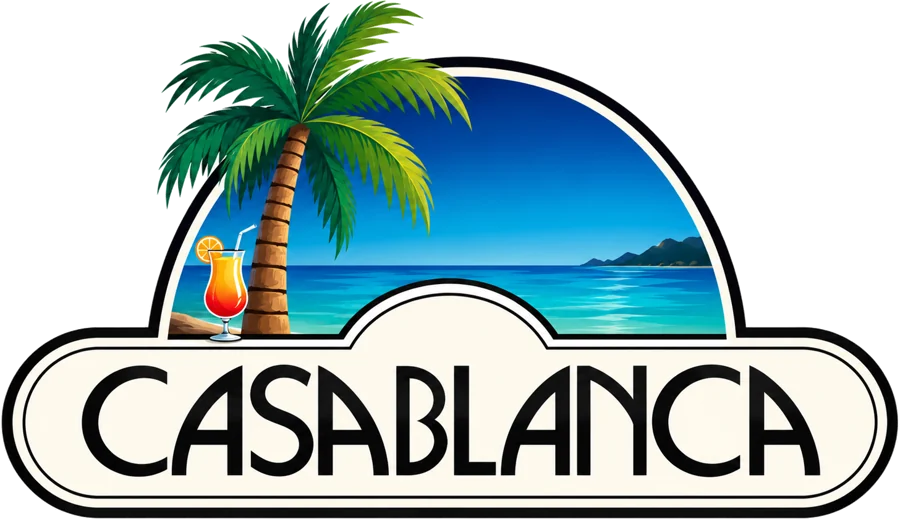
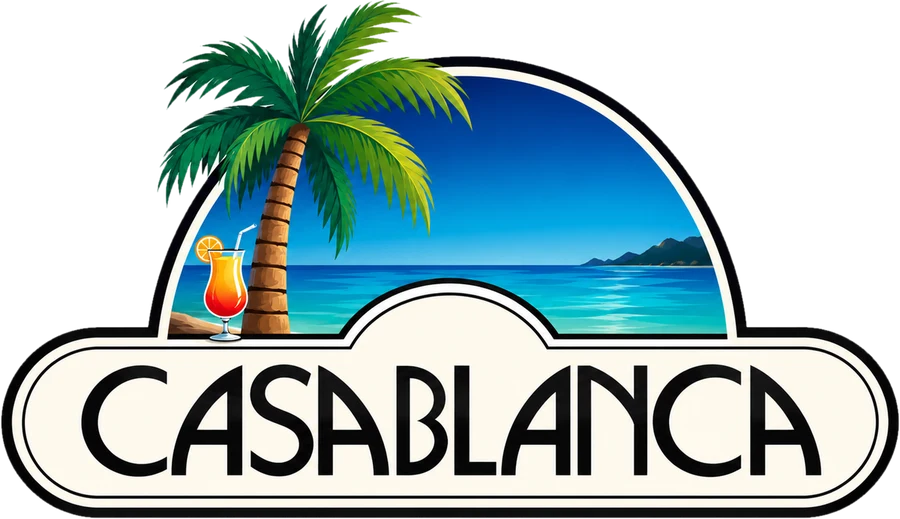
v20: el viaje vuelve a ser Casablanca (Our Beach Era queda como sticker)
- Logo Casablanca rehecho desde la versión nítida (fondo quitado); íconos regenerados
- Nombre por defecto Casablanca en app, manifest y marea-admin-personas
- Fuera sql/010; sql/009 también cubre «Our Beach Era». Demo resembrada (v13)
- BUILD_TAG v20, CACHE marea-v20

Claude-Session: https://claude.ai/code/session_019mPxzDvoYCSMcQcC5kjYpD

diff --git a/public/index.html b/public/index.html
@@ -4,7 +4,7 @@
 <meta charset="utf-8">
 <meta name="viewport" content="width=device-width, initial-scale=1, viewport-fit=cover">
 <!--ART-START-->
-<title>Our Beach Era · Same</title>
+<title>Casablanca · Same</title>
 <meta name="description" content="El viaje a la playa: gastos compartidos, tareas y noches temáticas.">
 <meta name="theme-color" content="#FFF9F1">
 <meta name="color-scheme" content="light">
@@ -472,7 +472,7 @@ a.item{text-decoration:none;color:inherit}
    Para conectar Supabase: pegar SB_URL y SB_ANON abajo (son públicas por diseño;
    la seguridad la hace RLS en sql/001_esquema.sql). La service_role JAMÁS va aquí.
    ============================================================================ */
-const BUILD_TAG='v19';
+const BUILD_TAG='v20';
 /* la casa, tal cual la publica el Airbnb (Daniel la pegó el 7-oct) */
 const CASA_AIRBNB={casa_titulo:'Precioso departamento en Casablanca (frente a la playa)',airbnb_url:'https://www.airbnb.cl/rooms/49074368',
   casa_desc:'Planta baja del Condominio Alcazaba del Río, en Casablanca (Same). A pocos metros de la piscina y el jacuzzi y a 10 gradas de la playa.\n\nSala, cocina, lavandería, 3 habitaciones y 2 baños completos. Terraza amplia y jardín con vista al mar: ideal para desayunar afuera y para las noches temáticas.\n\n¿Dónde dormimos?\n· Habitación 1: cama principal\n· Habitación 2: 2 camas individuales (literas)\n· Habitación 3: 4 camas individuales (literas)\n\nEl Airbnb dice 8 huéspedes · 7 camas · 2 baños · 4,83 ★ (35 reseñas).\nOjo: la casa no tiene detector de humo ni de monóxido.',
@@ -539,9 +539,9 @@ P.menu='<circle cx="13" cy="12.5" r="6"/><circle cx="13" cy="12.5" r="2.8"/><pat
 P.cocinera='<path d="M7 17.5h10V21H7z"/><path d="M7 17.5v-4.2A4 4 0 0 1 6 5.5a4 4 0 0 1 6-1.8 4 4 0 0 1 6 1.8 4 4 0 0 1-1 7.8v4.2"/>';
 P.logistica='<path d="M3.5 7.5 12 3l8.5 4.5v9L12 21l-8.5-4.5Z"/><path d="M3.5 7.5 12 12l8.5-4.5M12 12v9"/>';
 const ic=(k,cls='')=>`<svg class="${cls}" viewBox="0 0 24 24" fill="none" stroke="currentColor" stroke-width="1.8" stroke-linecap="round" stroke-linejoin="round" aria-hidden="true">${P[k]||P.otros}</svg>`;
-/* el logo del viaje: Our Beach Era (Daniel, 7-oct). Casablanca es la casa (sticker en Info). Ancho (1,7 : 1): px es el alto aproximado */
-const LOGO_CB='img/logo-beach-era.webp';
-function logo(px){return `<img class="logo logo-cb" src="${LOGO_CB}" alt="Our Beach Era" style="height:${Math.round(px*.62)}px;width:auto" onerror="this.remove()">`}
+/* el logo del viaje: Casablanca (Daniel, 7-oct; Our Beach Era queda como sticker). Ancho (1,7 : 1): px es el alto aproximado */
+const LOGO_CB='img/logo-casablanca.webp';
+function logo(px){return `<img class="logo logo-cb" src="${LOGO_CB}" alt="Casablanca" style="height:${Math.round(px*.62)}px;width:auto" onerror="this.remove()">`}
 const LOGO=logo(40);
 
 /* ---------- catálogos ---------- */
@@ -556,7 +556,7 @@ const TALLAS=['XS','S','M','L','XL','XXL'];
 const AVC=[['#D5EDEA','#075A56'],['#FCE5DC','#B23C1C'],['#E6E3FA','#4B3BA8'],['#FBEFD3','#8A5A0B'],['#DDF0FB','#1A5F8A'],['#F6DFEB','#9A2E64'],['#E3F2D9','#3F6B1C']];
 
 /* ---------- estado ---------- */
-let ME=null, PERSONAS=[], PMAP={}, CFG={nombre:'Our Beach Era',lugar:'',desde:null,hasta:null,moneda:'USD'};
+let ME=null, PERSONAS=[], PMAP={}, CFG={nombre:'Casablanca',lugar:'',desde:null,hasta:null,moneda:'USD'};
 let GASTOS=[], TAREAS=[], EVENTOS=[], VOTOS=[], ETIQUETAS=[], COMIDAS=[], PLATOS=[], ASIST=[], PRESU=[], INSPI=[], MURO=[], EQUIPO=[], VEHICULOS=[], PASAJEROS=[], COMERCIOS=[], MENSAJES=[];
 let TAB='hoy', SUBG='mov', SUBE='programa', FILT={cat:'',per:'',q:''}, FILTT={grupo:'',solo:false};
 const FOTOS={}; // ref → url resuelta
@@ -777,13 +777,13 @@ function seedDemo(){
   const vehiculos=[{id:uid(),nombre:'Camioneta de Daniel',conductor:autor,puestos:7,maletas:6,salida:'Quito, 6:00 a.m.',nota:'',creado_por:autor},{id:uid(),nombre:'Carro de Kevin',conductor:id('Kevin López'),puestos:5,maletas:4,salida:'Quito, 7:00 a.m.',nota:'',creado_por:id('Kevin López')}];
   const pasajeros=[]; const sube=(v,ns,t)=>ns.forEach(n=>pasajeros.push({vehiculo_id:vehiculos[v].id,persona_id:id(n),trayecto:t,maletas:1}));
   ['ida','regreso'].forEach(t=>{sube(0,['Daniel Martínez','Ana Paula','Alegría','Ana Cristina Grijalva'],t);sube(1,['Kevin López','Domenika Pérez','Natalia Vásquez','Amelia Camacho'],t)});
-  return {personas,config:{nombre:'Our Beach Era',lugar:'Same, Esmeraldas',desde,hasta,moneda:'USD',ejemplo:true,info:{...CASA_AIRBNB,casa_fotos:[],direccion:'Condominio Alcazaba del Río, Casablanca · Same, Esmeraldas',mapa_url:'',checkin:'15:00',checkout:'12:00',wifi_red:'',wifi_clave:'',
+  return {personas,config:{nombre:'Casablanca',lugar:'Same, Esmeraldas',desde,hasta,moneda:'USD',ejemplo:true,info:{...CASA_AIRBNB,casa_fotos:[],direccion:'Condominio Alcazaba del Río, Casablanca · Same, Esmeraldas',mapa_url:'',checkin:'15:00',checkout:'12:00',wifi_red:'',wifi_clave:'',
     que_llevar:['Protector solar y repelente','Traje de baño y toalla de playa','Todo blanco para la Welcome White Night','Pijama elegante para la Pizza & Game Night','Look dorado o beige para la Golden Hour (día 2)','Camisa hawaiana o look boho para el Tiki Boho Funny (día 3)','Algo elegante para la Restaurant Night','Tu número para el Talent Show','Medicinas personales'], /* las gafas de la sesión las pone Freaky Monkey */
     reglas:['Cero café soluble: se pasa café de verdad','Cada quien lava lo que usa en las cenas colaborativas','Todo gasto se sube con foto a la app','Silencio después de la 1 a.m. por los vecinos'],
     contactos:[{nombre:'Daniel',rol:'Organiza el viaje',tel:''}],
     faq:[{p:'¿Cómo se dividen los gastos?',r:'Cada gasto se sube a la app y se reparte entre quienes participan. Al final la app dice quién le paga a quién con el menor número de transferencias.'},{p:'¿Qué pasa si no como mariscos?',r:'Márcalo en tu ficha. La carta te avisa qué platos no son para ti y puedes pedir una variante.'},{p:'¿Hay que llevar comida?',r:'No. La despensa inicial se compra entre todos y los almuerzos los hace la cocinera.'}]}},gastos,tareas,eventos:ev,votos,etiquetas,historial:[],
     comidas:menu.comidas,platos:menu.platos,asistencia,presupuesto,inspiracion:[],equipo,vehiculos,pasajeros,comercios:[{clave:'n:supermercado ejemplo',nombre:'Supermercado (ejemplo)',ruc:null,categoria:'despensa',alcance:'fijo',etiquetas:['despensa'],veces:1}],
-    mensajes:[['Ana Paula','¡Ya confirmé la cocinera! Va a estar increíble',-180],['Kevin López','¿Llevamos parlante grande?',-120],['Daniel Martínez','Sí, el de la camioneta. Y el proyector para el karaoke',-110],['Alegría','Así nos espera Same 😍',-30]].map(([n,t,m])=>({id:uid(),persona_id:id(n),texto:t,foto:null,created_at:new Date(Date.now()+m*60000).toISOString()})),v:12};
+    mensajes:[['Ana Paula','¡Ya confirmé la cocinera! Va a estar increíble',-180],['Kevin López','¿Llevamos parlante grande?',-120],['Daniel Martínez','Sí, el de la camioneta. Y el proyector para el karaoke',-110],['Alegría','Así nos espera Same 😍',-30]].map(([n,t,m])=>({id:uid(),persona_id:id(n),texto:t,foto:null,created_at:new Date(Date.now()+m*60000).toISOString()})),v:13};
 }
 /* se entra con el CELULAR + clave = día y mes del cumpleaños (DDMM). Mismas reglas que marea-admin-personas */
 function normTel(t){let d=String(t??'').replace(/\D/g,'');if(d.startsWith('00'))d=d.slice(2);if(d.length===10&&d.startsWith('0'))d='593'+d.slice(1);else if(d.length===9&&d.startsWith('9'))d='593'+d;else if(d.length===10&&d.startsWith('3'))d='57'+d;return /^[0-9]{11,15}$/.test(d)?d:null}
@@ -794,13 +794,13 @@ const MESES_L=['enero','febrero','marzo','abril','mayo','junio','julio','agosto'
 const cumpleTxt=c=>c?`${+c.slice(3,5)} de ${MESES_L[+c.slice(0,2)-1]}`:'';
 /* 593985576470 → 098 557 6470 (Ecuador); los demás, con su + */
 const telLocal=t=>!t?'':/^593\d{9}$/.test(t)?('0'+t.slice(3)).replace(/^(\d{3})(\d{3})(\d{4})$/,'$1 $2 $3'):'+'+t;
-function mensajeWA(nombre){const primer=(nombre||'').trim().split(/\s+/)[0]||'';const lugar=(typeof CFG!=='undefined'&&CFG.lugar)||'la playa',app=(typeof CFG!=='undefined'&&CFG.nombre)||'Our Beach Era';
+function mensajeWA(nombre){const primer=(nombre||'').trim().split(/\s+/)[0]||'';const lugar=(typeof CFG!=='undefined'&&CFG.lugar)||'la playa',app=(typeof CFG!=='undefined'&&CFG.nombre)||'Casablanca';
   return `¡Hola ${primer}! 🌴☀\nYa está lista ${app}, la app de nuestro viaje a ${lugar}.\n\n👉 Entra desde tu celular: ${APP_URL}\n📱 Usuario: tu número de celular\n🔑 Clave: el día y el mes de tu cumpleaños (4 números: si naciste el 7 de marzo, es 0703)\n\nAhí vas a encontrar:\n💸 Los gastos y cuánto te toca pagar, cada uno con su factura\n🗓 El plan de cada día y el look de cada noche\n🍽 El menú de los 4 días (márcanos si no comes algo)\n📸 El álbum para subir las fotos del viaje\n🙋 Tu ficha: alergias, tu talento y tu canción de karaoke\n\nTip: ábrela y en el menú del navegador elige "Agregar a pantalla de inicio" para tenerla como app.`}
 function waUrl(tel,msg){const t=String(tel||'').replace(/\D/g,'');return t?`https://wa.me/${t}?text=${encodeURIComponent(msg)}`:null}
 
 const Demo={
   d:null,
-  init(){const s=lsGet(DEMO_KEY);if(s){try{this.d=JSON.parse(s)}catch(e){}} if(!this.d||this.d.v!==12){this.d=seedDemo();this.save()}},
+  init(){const s=lsGet(DEMO_KEY);if(s){try{this.d=JSON.parse(s)}catch(e){}} if(!this.d||this.d.v!==13){this.d=seedDemo();this.save()}},
   save(){lsSet(DEMO_KEY,JSON.stringify(this.d))},
   async restore(){const id=lsGet(DEMO_SES);const p=this.d.personas.find(x=>x.id===id&&x.activo);return p?{...p}:null},
   async login(tel,pin){const p=this.d.personas.find(x=>x.telefono&&x.telefono===tel);if(!p||!p.cumple||pinDe(p.cumple)!==pin)throw new Error('Celular o clave incorrecta. La clave es el día y el mes de tu cumpleaños.');if(!p.activo)throw new Error('Tu cuenta está bloqueada. Escríbele a Daniel.');p.ultimo_acceso=new Date().toISOString();this.save();lsSet(DEMO_SES,p.id);return{...p}},
@@ -1070,7 +1070,7 @@ function render(){
     ${enHoy?'':`<header class="top2"><button class="x" onclick="${EN_MAS.includes(TAB)&&TAB!=='mas'?"irA('mas')":"irA('hoy')"}" aria-label="Atrás">${ic('back')}</button>
       <div class="top2-t">${logo(58)}<small>${sub}</small></div><button class="x" onclick="abrirMenuMas()" aria-label="Más opciones">${ic('dots')}</button></header>`}
     <main id="main">${(views[TAB]||vHoy)()}</main>
-    <p class="foot"><button class="link-x" onclick="verCreditos()">Créditos de las fotos</button> · Our Beach Era ${BUILD_TAG}${MODO==='demo'?' · modo demo':''}</p></div>
+    <p class="foot"><button class="link-x" onclick="verCreditos()">Créditos de las fotos</button> · Casablanca ${BUILD_TAG}${MODO==='demo'?' · modo demo':''}</p></div>
     ${TAB==='chat'?'':`<button class="fab" onclick="abrirAgregar()" aria-label="Agregar">${ic('plus')}</button>`}
     <nav class="tabs" aria-label="Secciones"><div class="tabs-in">${TABS_BARRA.map(([k,l])=>`<button class="tab" ${k===activa?'aria-current="page"':''} onclick="irA('${k}')">${ic(TAB_IC[k]||k)}<span>${l}</span></button>`).join('')}</div></nav>`;
   if(TAB==='gastos'&&SUBG==='mov')pintarListaGastos();
@@ -1153,7 +1153,7 @@ function vHoy(){
     ${nocheCard(hoy)}
     <button class="card saldo-c" onclick="SUBG='mov';irA('gastos')"><div class="grow"><div class="eyebrow">Mis cuentas</div><div class="muted tiny">${b.saldo>0.009?'En total te deben':b.saldo<-0.009?'En total debes':'Estás a paz y salvo'}</div></div><span class="amt ${b.saldo>0.009?'pos':b.saldo<-0.009?'neg':''}">${money(Math.abs(b.saldo))}</span></button>
     <div class="stk-row">${['goodVibes','salty','vitamin','paradise','goodFriends','sunSand'].map(k=>stk(k)).join('')}</div>
-    <div style="text-align:center;margin-top:10px">${stk('casablanca','',240)}</div>`;
+    <div style="text-align:center;margin-top:10px">${stk('beachEra','',300)}</div>`;
 }
 /* la temática de esta noche (o la próxima) en grande: lo primero que la gente quiere saber */
 function nocheDestacada(hoy){return EVENTOS.filter(e=>(e.estado==='oficial'||e.estado==='hecho')&&esNoche(e)&&e.estilo&&e.dia&&e.dia>=hoy).sort((a,b)=>a.dia.localeCompare(b.dia))[0]}
@@ -1884,7 +1884,7 @@ async function cargaMasiva(){
   $('#cmr').innerHTML=`<div class="card"><div class="list">${out.map((o,i)=>`<div class="item" style="cursor:default"><div class="grow"><div class="t">${esc(o.nombre)}</div><div class="s">${o.ok?'Clave (cumpleaños) '+esc(o.r.pin):esc(o.err)}</div></div>${o.ok?`<button class="btn sm" onclick="copiar(CM[${i}].r.mensaje,'Mensaje copiado')">${ic('copy')}</button>`:'<span class="pill bad">error</span>'}</div>`).join('')}</div></div>
     <button class="btn primary block" style="margin-top:10px" onclick="copiar(CM.filter(o=>o.ok).map(o=>o.r.mensaje).join('\\n\\n———\\n\\n'),'Todos los mensajes copiados')">Copiar todos los mensajes</button>`;
 }
-async function guardarViaje(){const c={nombre:$('#cv_n').value.trim()||'Our Beach Era',lugar:$('#cv_l').value.trim(),desde:$('#cv_d').value||null,hasta:$('#cv_h').value||null,moneda:$('#cv_m').value};
+async function guardarViaje(){const c={nombre:$('#cv_n').value.trim()||'Casablanca',lugar:$('#cv_l').value.trim(),desde:$('#cv_d').value||null,hasta:$('#cv_h').value||null,moneda:$('#cv_m').value};
   if(c.desde&&c.hasta&&c.hasta<c.desde){toast('La fecha final va después de la inicial');return}
   try{await API.saveConfig(c);await cargar();toast('Viaje guardado');render()}catch(e){toast(e.message)}}
 function respaldoJSON(){const j=JSON.stringify({exportado:new Date().toISOString(),config:CFG,personas:PERSONAS,gastos:GASTOS,tareas:TAREAS,eventos:EVENTOS,votos:VOTOS,etiquetas:ETIQUETAS,comidas:COMIDAS,platos:PLATOS,asistencia:ASIST,presupuesto:PRESU},null,1);

diff --git a/supabase/functions/marea-admin-personas/index.ts b/supabase/functions/marea-admin-personas/index.ts
@@ -69,7 +69,7 @@ async function mensajeWA(nombre: string) {
   const primer = (nombre || "").trim().split(/\s+/)[0] || "";
   const { data: cfg } = await admin.from("config").select("valor").eq("clave", "viaje").maybeSingle();
   const v = (cfg?.valor as Record<string, string>) || {};
-  const lugar = v.lugar || "la playa", app = v.nombre || "Our Beach Era";
+  const lugar = v.lugar || "la playa", app = v.nombre || "Casablanca";
   return `¡Hola ${primer}! 🌴☀\nYa está lista ${app}, la app de nuestro viaje a ${lugar}.\n\n` +
     `👉 Entra desde tu celular: ${APP}\n📱 Usuario: tu número de celular\n🔑 Clave: el día y el mes de tu cumpleaños (4 números: si naciste el 7 de marzo, es 0703)\n\n` +
     `Ahí vas a encontrar:\n💸 Los gastos y cuánto te toca pagar, cada uno con su factura\n🗓 El plan de cada día y el look de cada noche\n` +

diff --git a/public/sw.js b/public/sw.js
@@ -3,7 +3,7 @@
    llega a todos los celulares apenas se despliega. El caché solo entra sin red.
    Supabase NUNCA se cachea (datos vivos y URLs firmadas).
    ⚠ Subir CACHE cada vez que se toque este archivo. */
-const CACHE = 'marea-v19';
+const CACHE = 'marea-v20';
 
 self.addEventListener('install', () => self.skipWaiting());
 self.addEventListener('activate', (e) => e.waitUntil(clients.claim()));

diff --git a/docs/ESTADO.md b/docs/ESTADO.md
@@ -1,6 +1,13 @@
-# Estado · Our Beach Era (antes Casablanca, Beach Trip y Marea Alta)
+# Estado · Casablanca (antes Beach Trip y Marea Alta)
 
-> Lo primero que lee quien retome. Última actualización: **7-oct-2026 · v19**.
+> Lo primero que lee quien retome. Última actualización: **7-oct-2026 · v20**.
+
+## v20 (7-oct) · de vuelta a Casablanca
+- Daniel decidió que el viaje vuelve a ser **Casablanca** (logo y nombre). Our Beach Era queda solo como sticker
+  (al pie de Hoy, ahora recortado limpio). La v19 nunca se desplegó.
+- Logo Casablanca rehecho desde la versión nítida que mandó Daniel (1566 px, fondo blanco quitado):
+  `img/logo-casablanca.webp` y `stickers/casablanca.webp`. Íconos de la app regenerados.
+- Se borró `sql/010`; `sql/009` ahora también cambia «Our Beach Era» a «Casablanca». Demo resembrada (v13).
 
 ## v19 (7-oct) · el viaje se llama Our Beach Era
 - Logo del viaje: **Our Beach Era** (`public/img/logo-beach-era.webp`, recortado limpio de la hoja de stickers con
